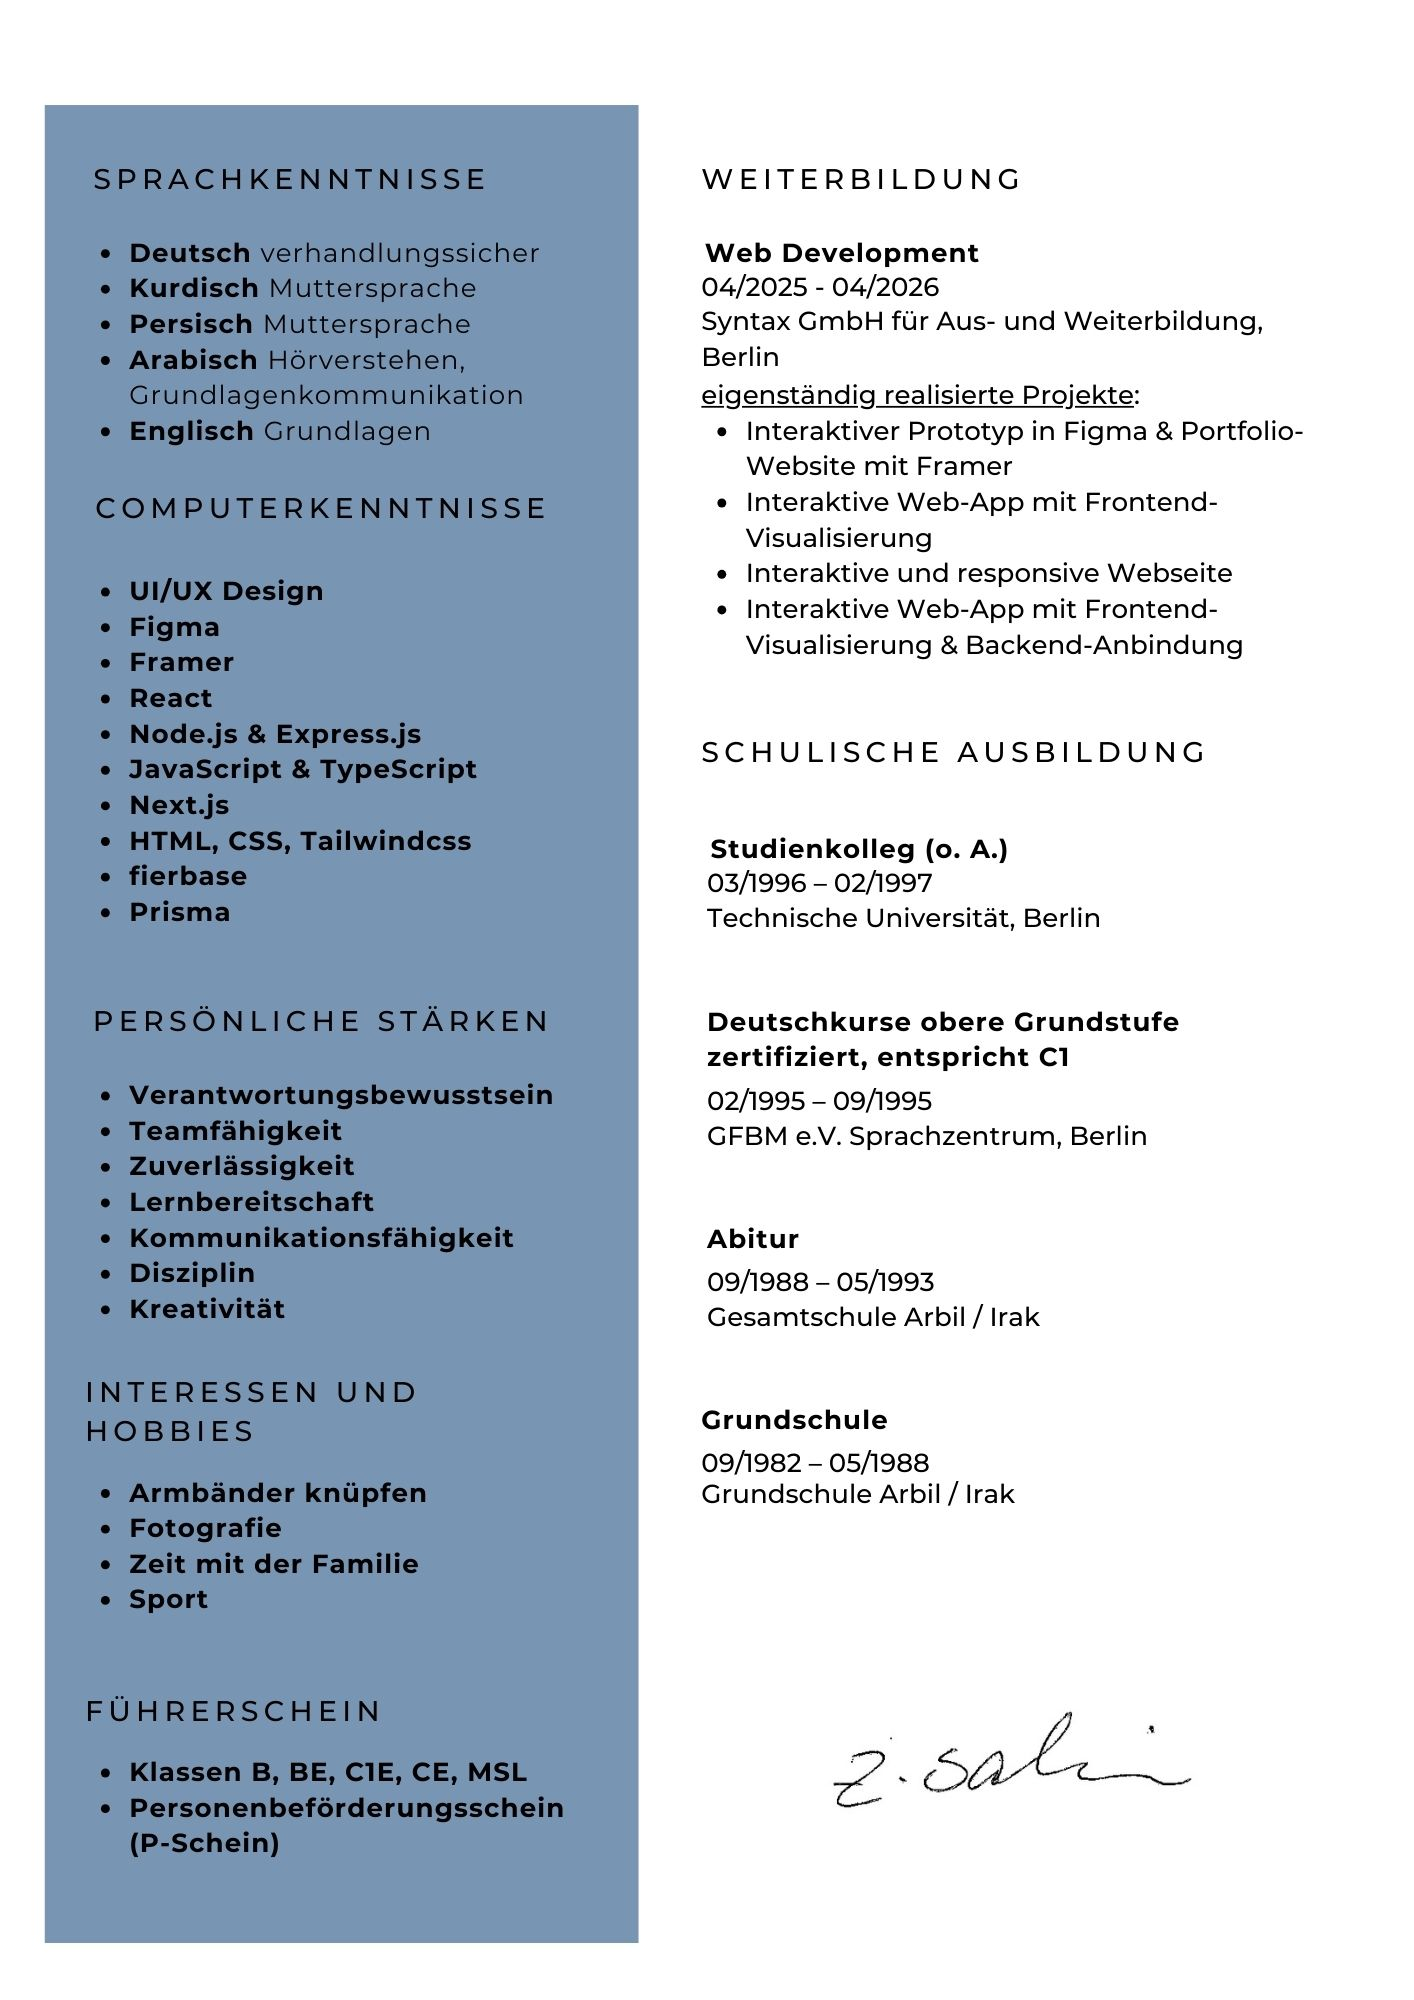
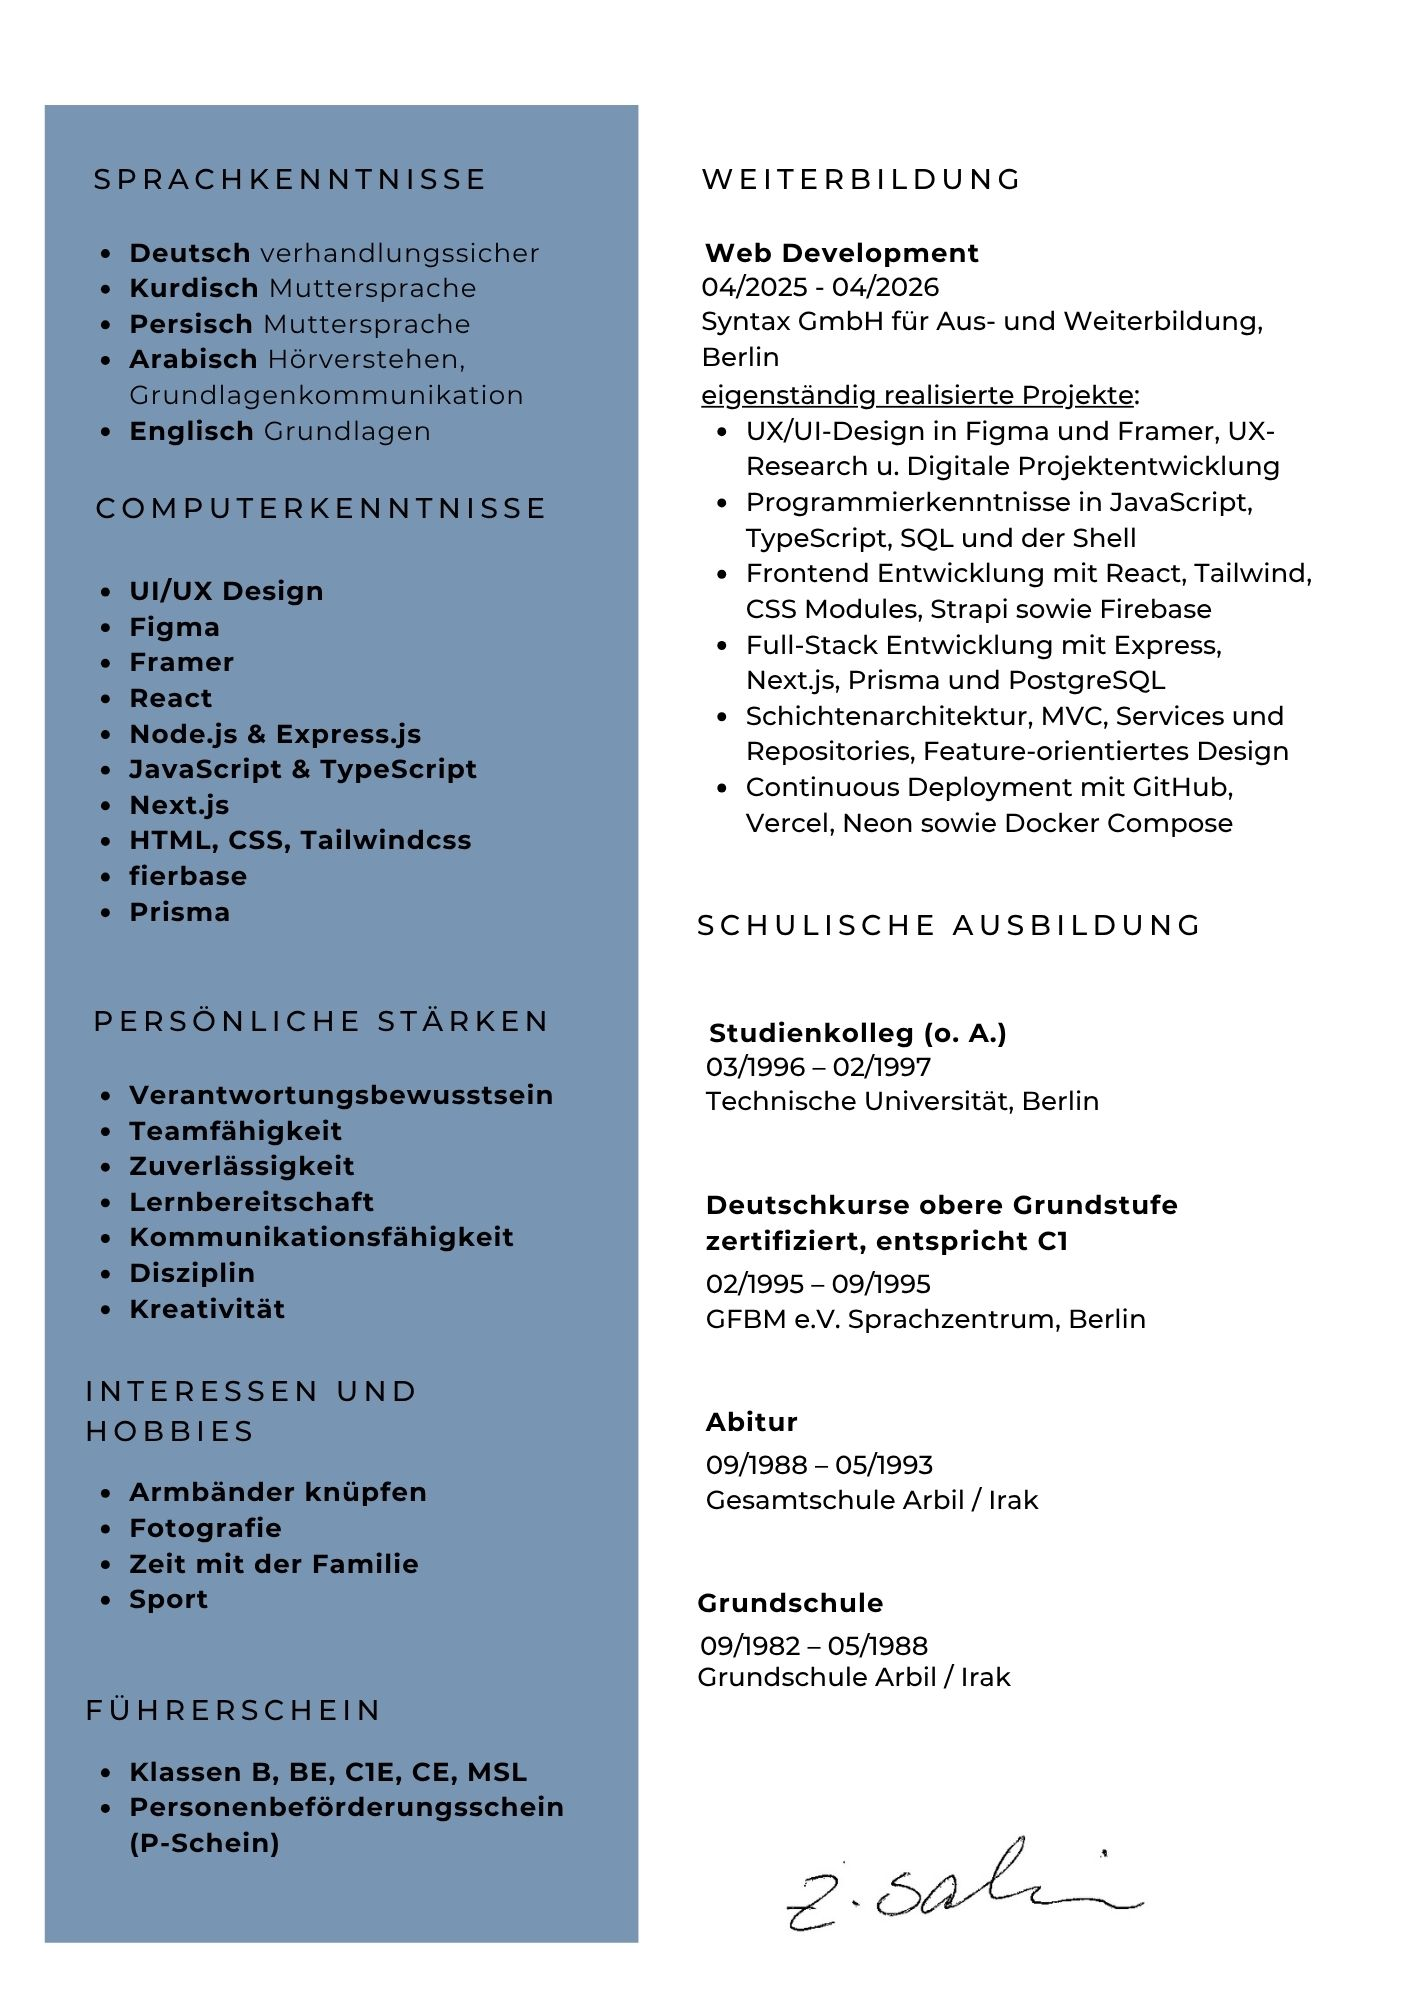
Neue  Zertifikate eingefügt

diff --git a/src/components/MeinZertifikat.jsx b/src/components/MeinZertifikat.jsx
@@ -4,6 +4,8 @@ import Zertifikate from "../Pages/Zertifikate";
 import modul1 from "../assets/Modulbescheinigung Modul 1_Zirawan_Salim.jpg";
 import modul2 from "../assets/Modulbescheinigung Modul 2_Zirawan_Salim_Einführung Software- und Webentwicklung.jpg";
 import modul3 from "../assets/Modulbescheinigung Modul 3_Zirawan_Salim_Vertiefung_ Frontend Entwicklung.jpg";
+import modul4 from "../assets/Modulbescheinigung M4_Zirawan_Salim_Spezialisierung & Arbeitsmarktvorbereitung.jpg";
+import syntaxZertifikat from "../assets/Syntaxzertifikat_Zirawan_Salim -1.jpg";
 import ihkS1 from "../assets/IHK Zertifikat S1.jpg";
 import ihkS2 from "../assets/IHK Zertifikat S2.jpg";
 import juniorIhk1 from "../assets/Junior Web Developer IHK 1.jpg";
@@ -19,6 +21,8 @@ export default function MeinZertifikat() {
         modul1,
         modul2,
         modul3,
+        modul4,
+        syntaxZertifikat,
         ihkS1,
         ihkS2,
         juniorIhk1,
